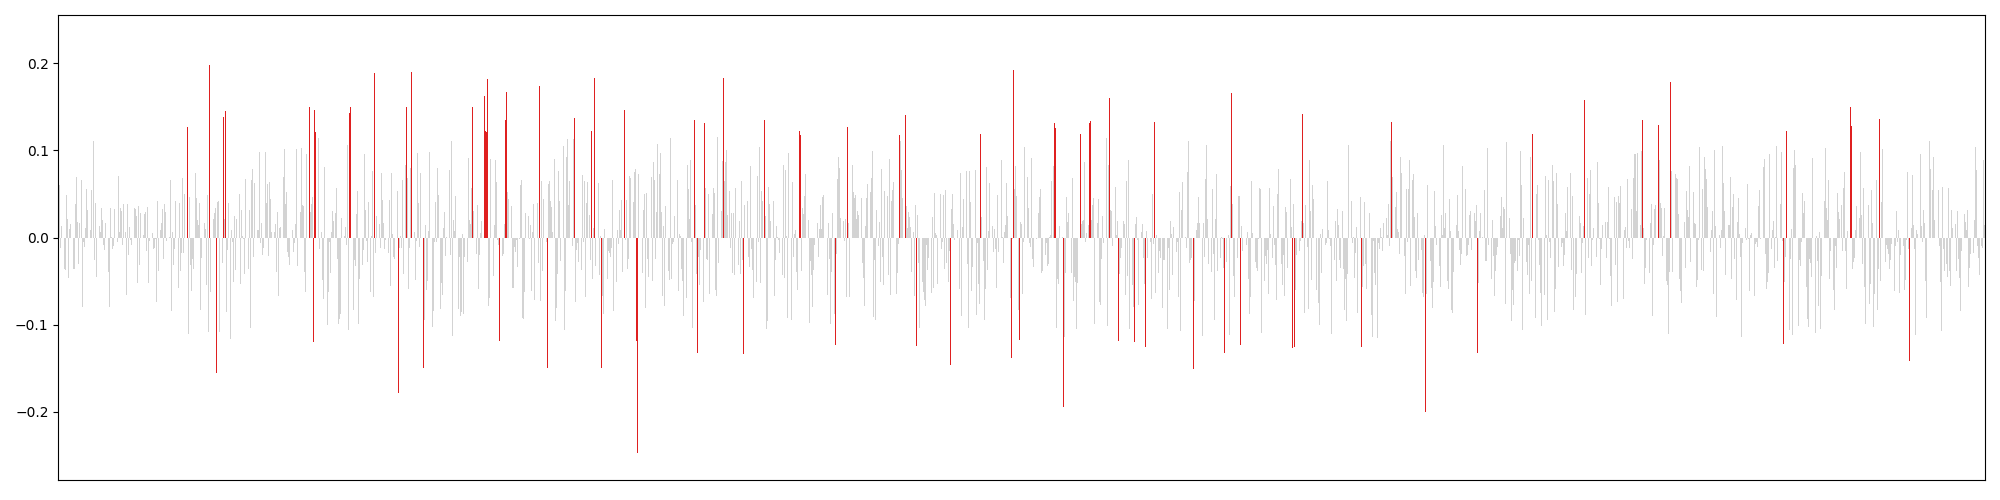
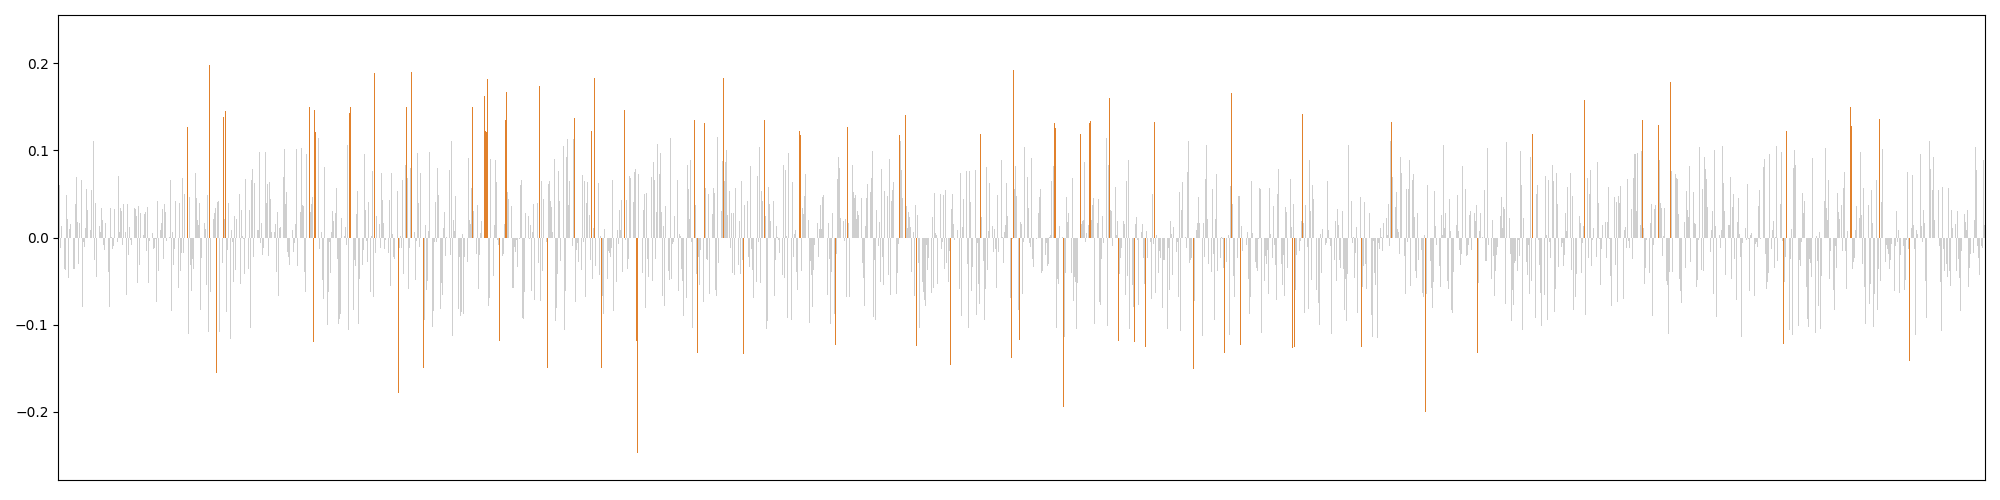
adjust colors

diff --git a/amr_maldi_ml/plotting/plot_feature_importances.py b/amr_maldi_ml/plotting/plot_feature_importances.py
@@ -37,12 +37,13 @@ for filename in input_files:
     print(species, np.median(np.abs(mean_feature_weights)))
     plt.close('all')
     fig, ax = plt.subplots(figsize=(20,5))
+    #sns.set(style="whitegrid")
 
     median3 = 3*np.median(np.abs(mean_feature_weights))
     if model=='lightgbm':
-        colors=['blue' if w_ > median3 else 'lightgrey' for w_ in mean_feature_weights]
+        colors=[sns.color_palette()[0] if w_ > median3 else sns.color_palette('pastel')[7] for w_ in mean_feature_weights]
     else:
-        colors=['red' if np.abs(w_) > median3 else 'lightgrey' for w_ in mean_feature_weights]
+        colors=[sns.color_palette()[1] if np.abs(w_) > median3 else sns.color_palette('pastel')[7] for w_ in mean_feature_weights]
 
     sns.barplot(
         x=[i+1 for i in range(6000)],
